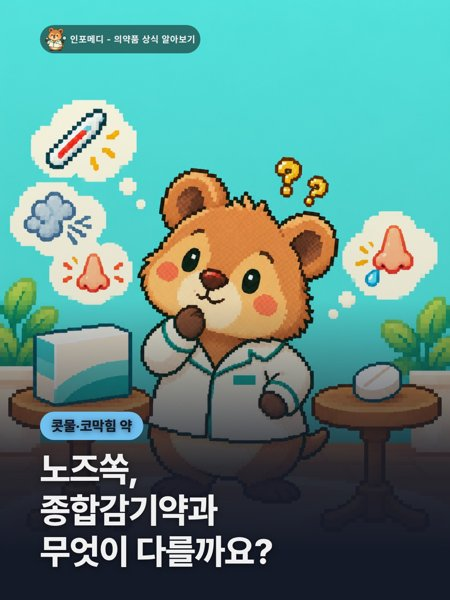
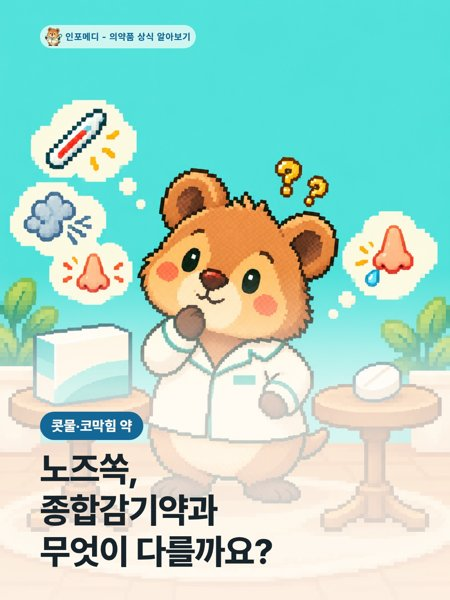
links

diff --git a/index.html b/index.html
@@ -34,7 +34,7 @@
 <section class="section">
 <h2>의약품 정보 <small id="count"></small></h2>
 <div class="grid" id="list">
-<a class="item" href="https://blog.naver.com/info_medi_/224426518430"><img src="c/노즈쏙-white.jpg" alt="" loading="lazy">
+<a class="item" href="https://blog.naver.com/info_medi_/224426518430"><img src="c/노즈쏙.jpg" alt="" loading="lazy">
 <span><b>노즈쏙, 종합감기약과 무엇이 다를까요?</b><small><time datetime="2026-10-08 18:21"></time></small></span></a>
 <a class="item" href="https://blog.naver.com/info_medi_/224426529924"><img src="c/지르텍.jpg" alt="" loading="lazy">
 <span><b>지르텍, 두드러기에도 먹는 약일까요?</b><small><time datetime="2026-10-08 12:26"></time></small></span></a>
